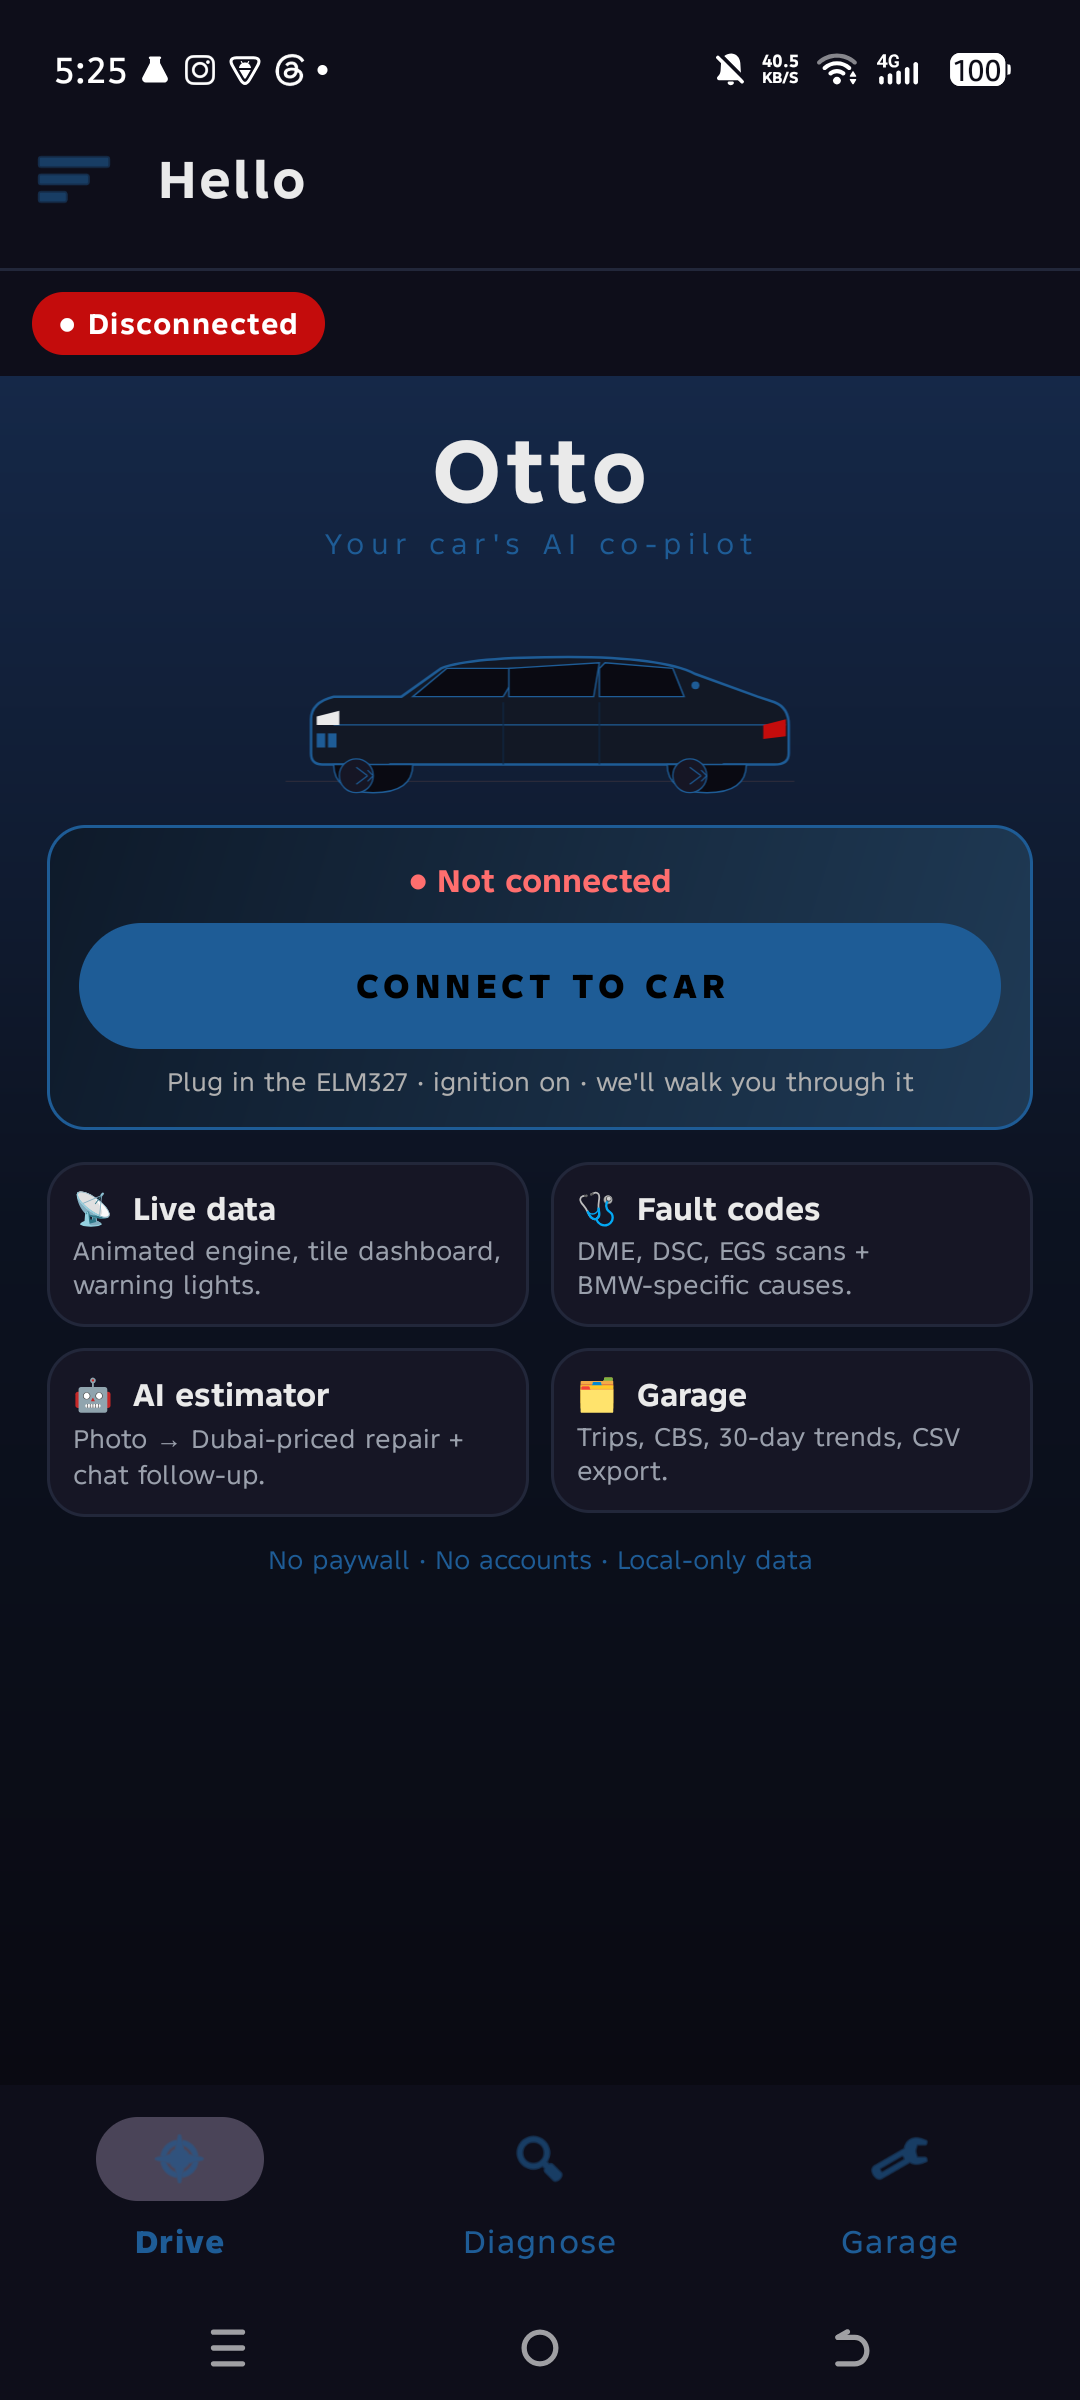
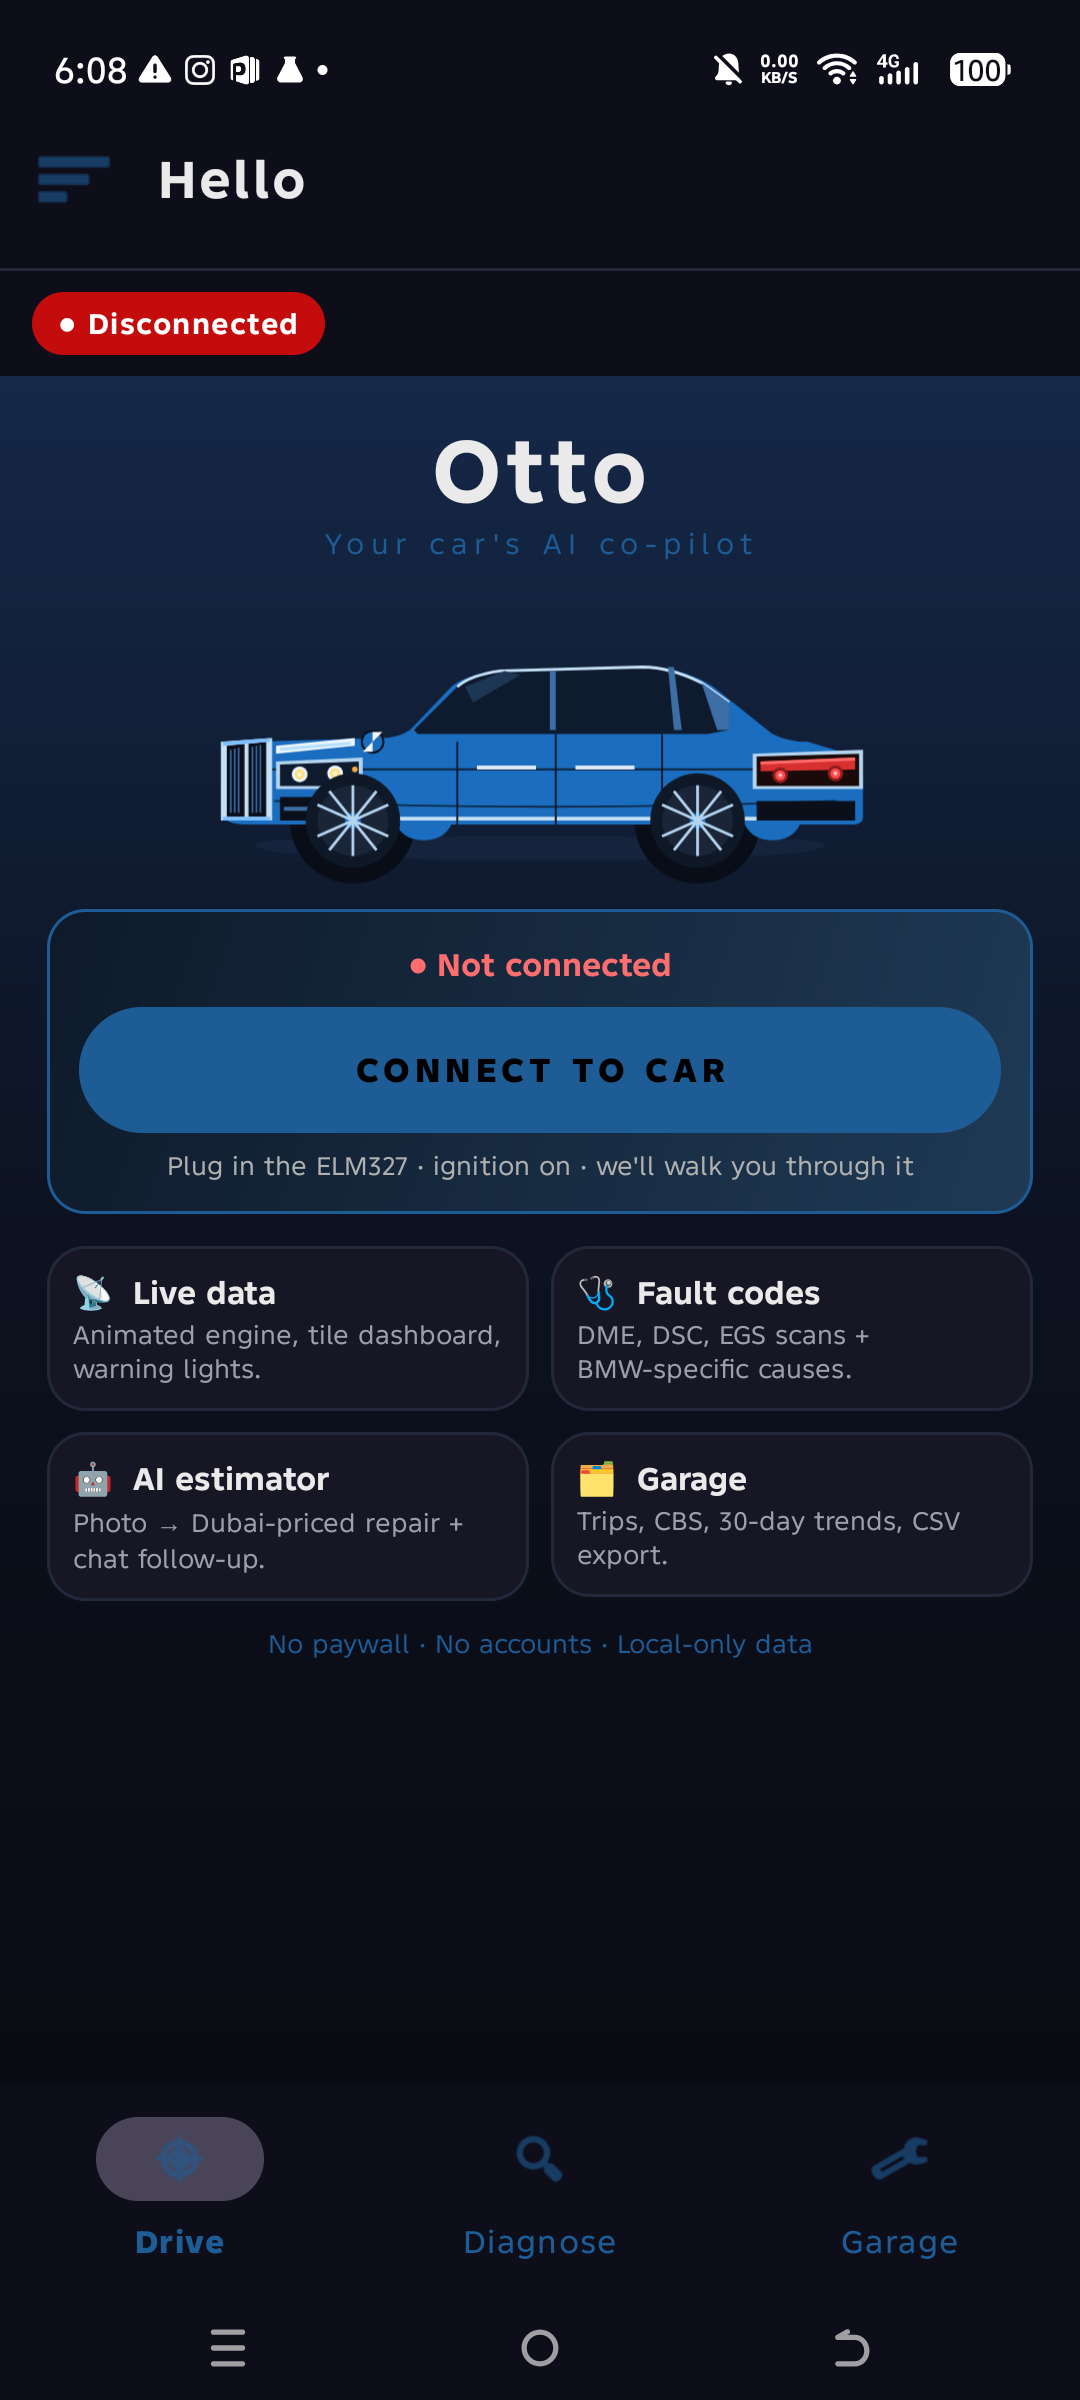
Modernize BMW G70 side-profile vector + gentle floating animation
Reverted from the frame-animation and software 3D rendering experiments —
neither approach was worth the trade-off:
  - Bundled photo frames looked good but the user preferred no bitmaps.
  - Hand-coded Canvas 3D can't approach real 3D render quality without
    weeks of artistic work; the wireframe and solid-shaded attempts read
    as skeletal / broken.

Landed on a memory-cheap stylized vector: modern G70 7 Series side view
(vertical kidney grille, split LED DRL, wraparound tail bar, chrome
window trim, 10-spoke aero wheels, roundel on hood), with a subtle 4dp
floating animation. Zero bitmap cost, zero risk of OOM, no native deps.

diff --git a/app/src/main/java/com/example/obd/MainActivity.java b/app/src/main/java/com/example/obd/MainActivity.java
@@ -675,6 +675,23 @@ public class MainActivity extends AppCompatActivity {
         TextView statusTv = root.findViewById(R.id.tvWelcomeStatus);
         android.widget.Button btn = root.findViewById(R.id.btnWelcomeConnect);
         if (statusTv == null || btn == null) return;
+
+        // Vector-based hero — cheap floating animation with no bitmap cost.
+        // ObjectAnimator + a tiny translation range keeps the effect subtle
+        // and burns no meaningful memory. Animators GC with the View.
+        View car = root.findViewById(R.id.imgWelcomeCar);
+        if (car != null) {
+            float density = getResources().getDisplayMetrics().density;
+            android.animation.ObjectAnimator floatY =
+                    android.animation.ObjectAnimator.ofFloat(car, "translationY",
+                            0f, -4f * density);
+            floatY.setDuration(2400L);
+            floatY.setRepeatCount(android.animation.ObjectAnimator.INFINITE);
+            floatY.setRepeatMode(android.animation.ObjectAnimator.REVERSE);
+            floatY.setInterpolator(new android.view.animation.AccelerateDecelerateInterpolator());
+            floatY.start();
+        }
+
         Runnable refresh = () -> {
             boolean connected = obdManager != null && obdManager.isConnected();
             if (connected) {